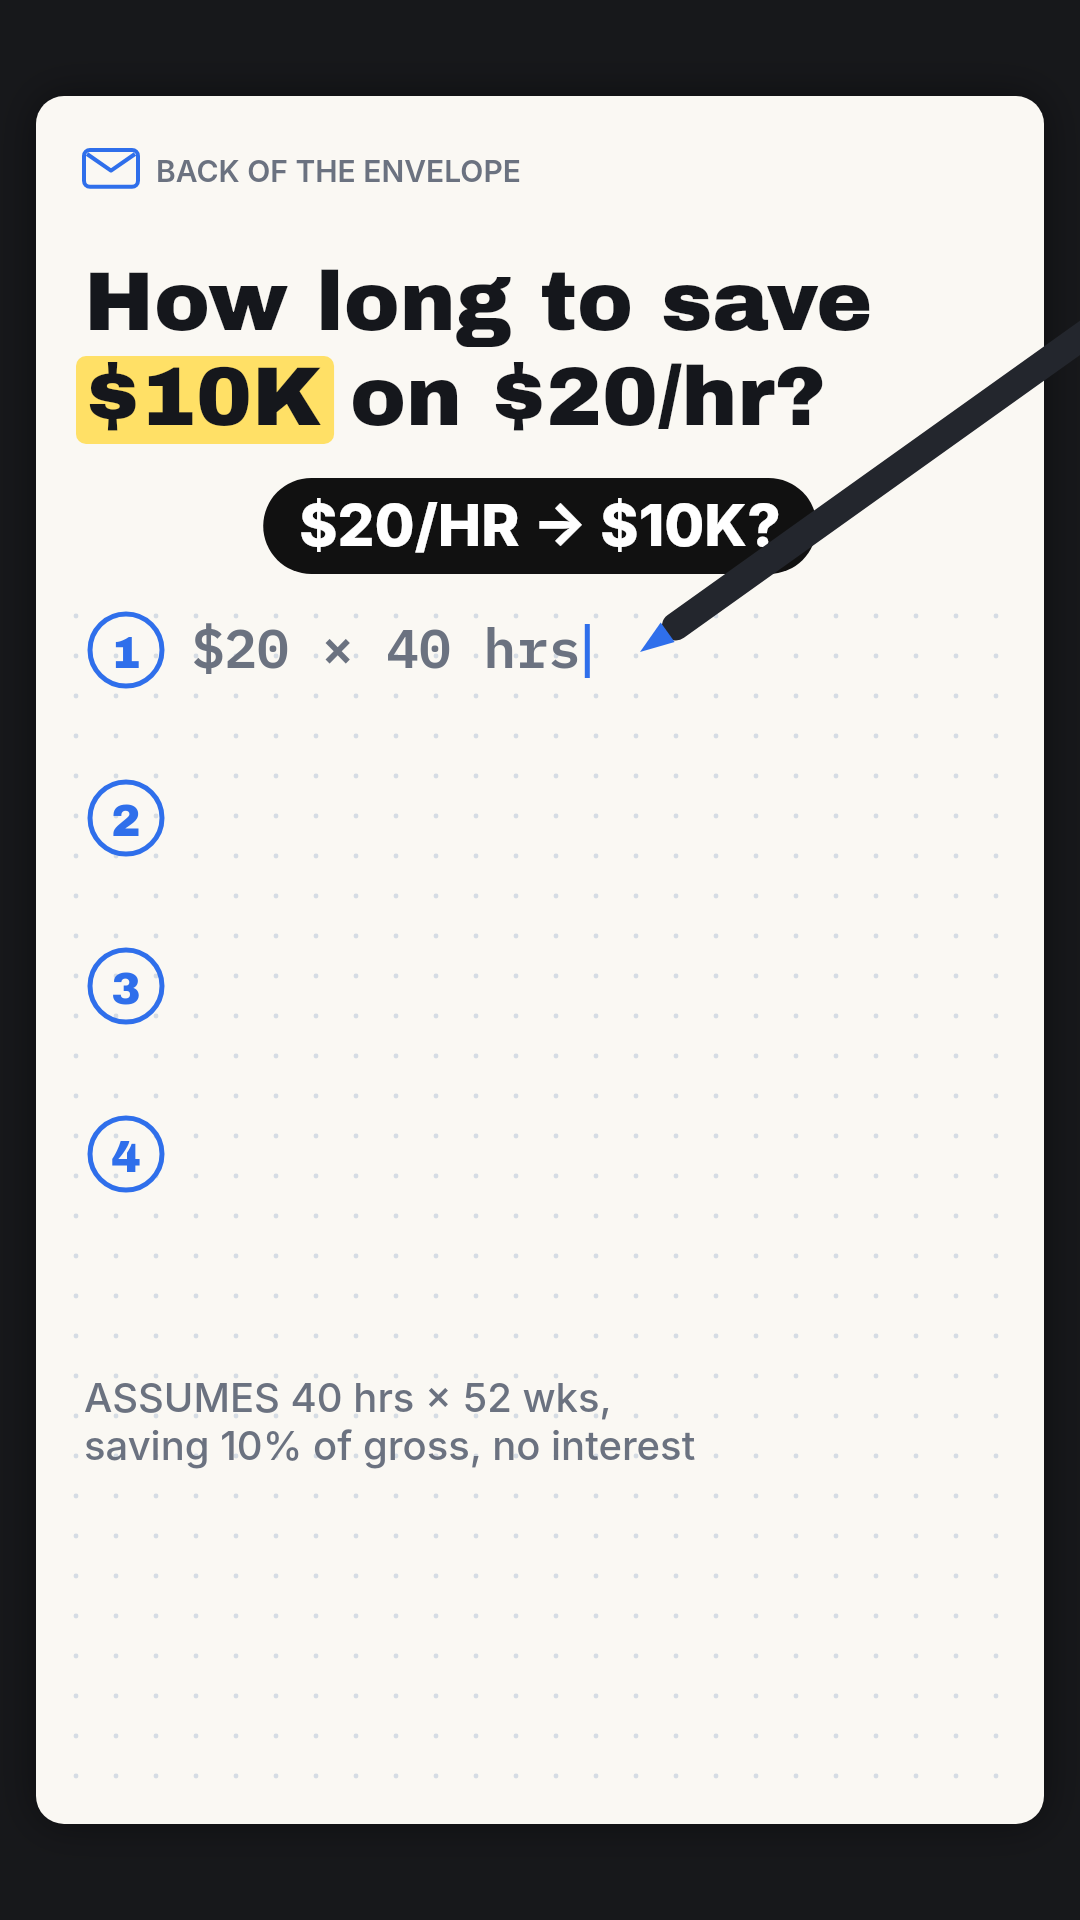
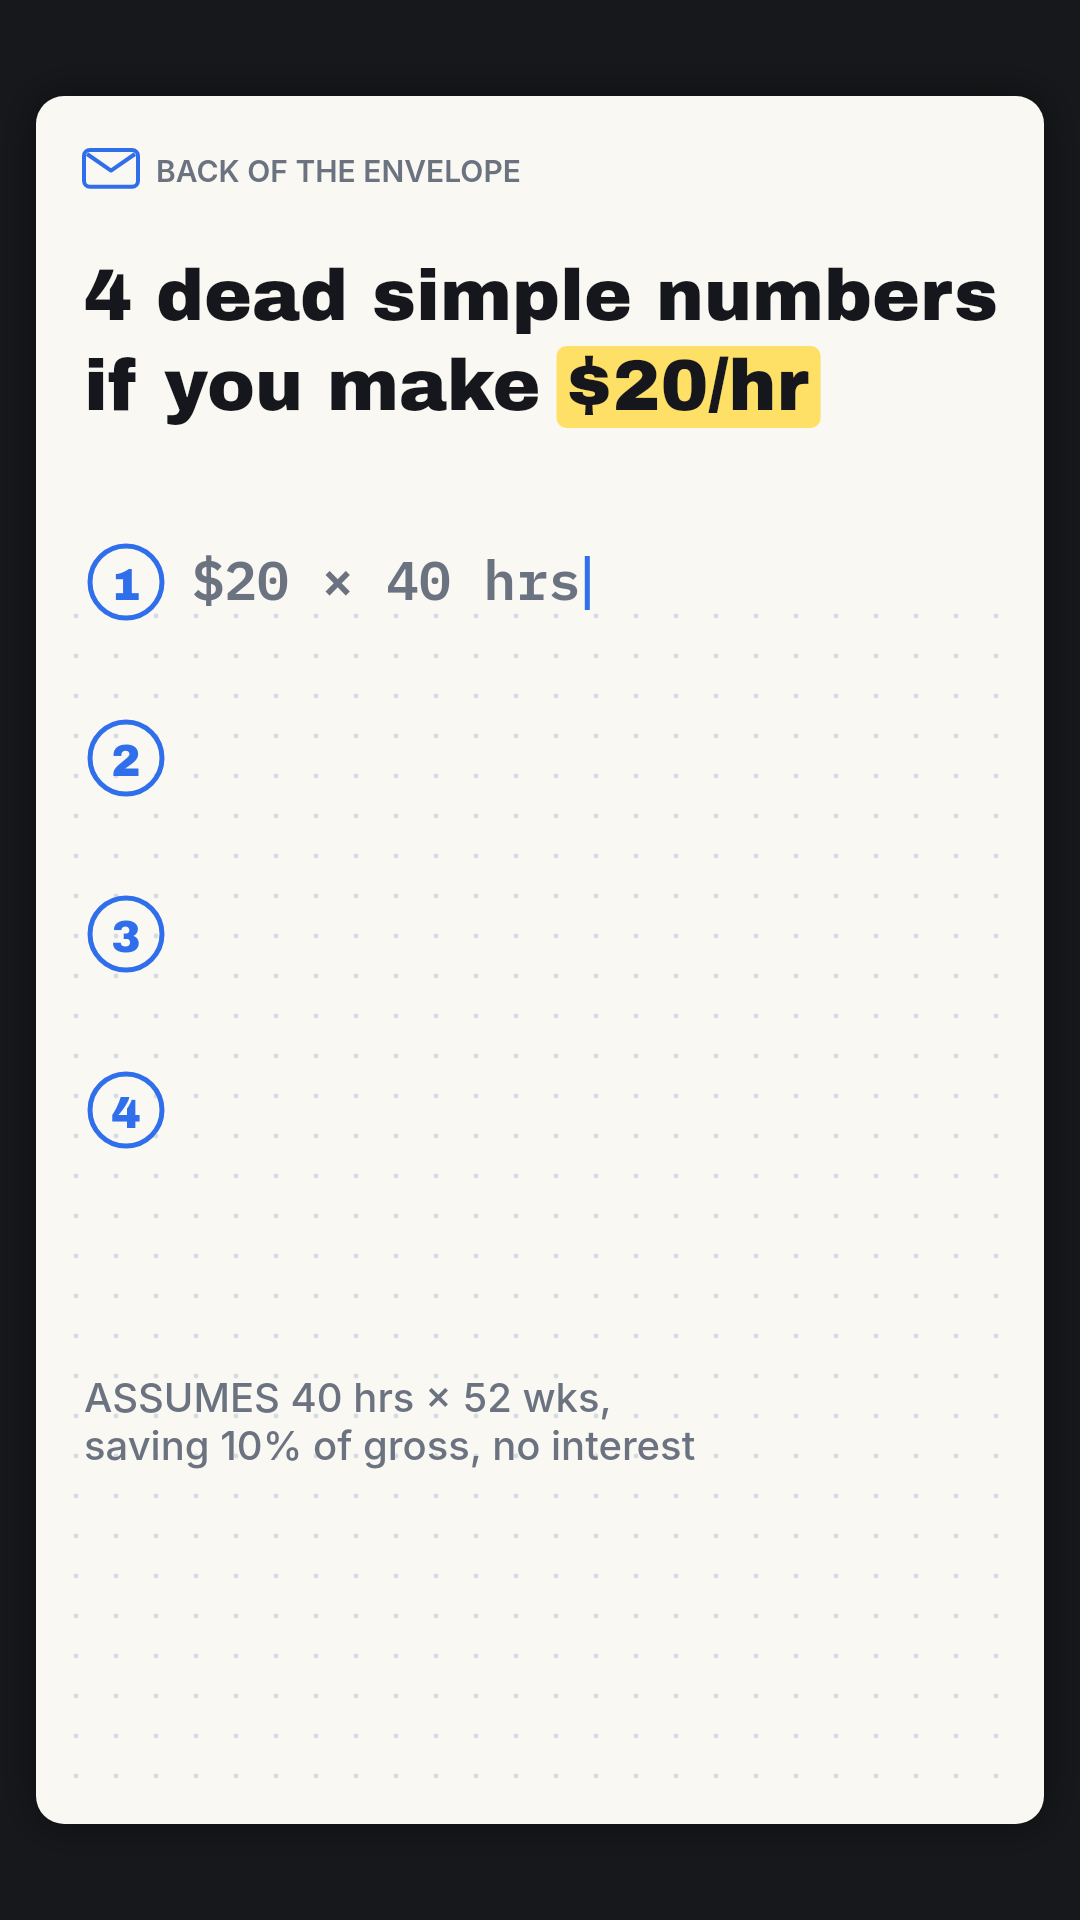
Research v2: four look directions side by side (Becker rig added), Clean Sheet mockup on a P1 hook
Claude-Session: https://claude.ai/code/session_013QpxDmKWYsEXQ9vocVgPC3

Changed region(s): [[0.0611, 0.125, 0.9778, 0.375], [0.0611, 0.2812, 0.1528, 0.625]]

diff --git a/research/v2/03-look-directions.md b/research/v2/03-look-directions.md
@@ -8,6 +8,11 @@
 **Not used:** [`watch/alan-becker.md`](watch/alan-becker.md) is a look reference the user asked for earlier. It is not a benchmark, so nothing below rests on it (see the appendix).
 **Mockups:** [`look-mockups/`](look-mockups/) holds 1080×1920 stills of frame 1 and the payoff frame for each direction, drawn with the specified fonts and colours to check that the specs fit at real size. Start with [`look-mockups/contact-sheet.png`](look-mockups/contact-sheet.png). The `*-frame1-safe.png` versions overlay the safe zones. They are layout tests, not finished designs.
 
+**Mockup revision (after this report):**
+- The Clean Sheet stills now open on a P1 hook, "4 dead simple numbers if you make **$20/hr**". The storyboard's "How long to save $10K?" is the goal-first anti-pattern (P3, see [`02-hook-bank.md`](02-hook-bank.md)). The math is unchanged.
+- The badge and pointer were dropped from those stills because they repeated the title.
+- The contact sheet now has a fourth column, **4 · Becker Rig**, built from [`watch/alan-becker.md`](watch/alan-becker.md): `d4-frame1.png`, `d4-math.png` and `d4-payoff.png` ($1,000 × 1.07^10 ≈ $1,967; × 1.07^30 ≈ $7,612).
+
 ---
 
 ## Summary
